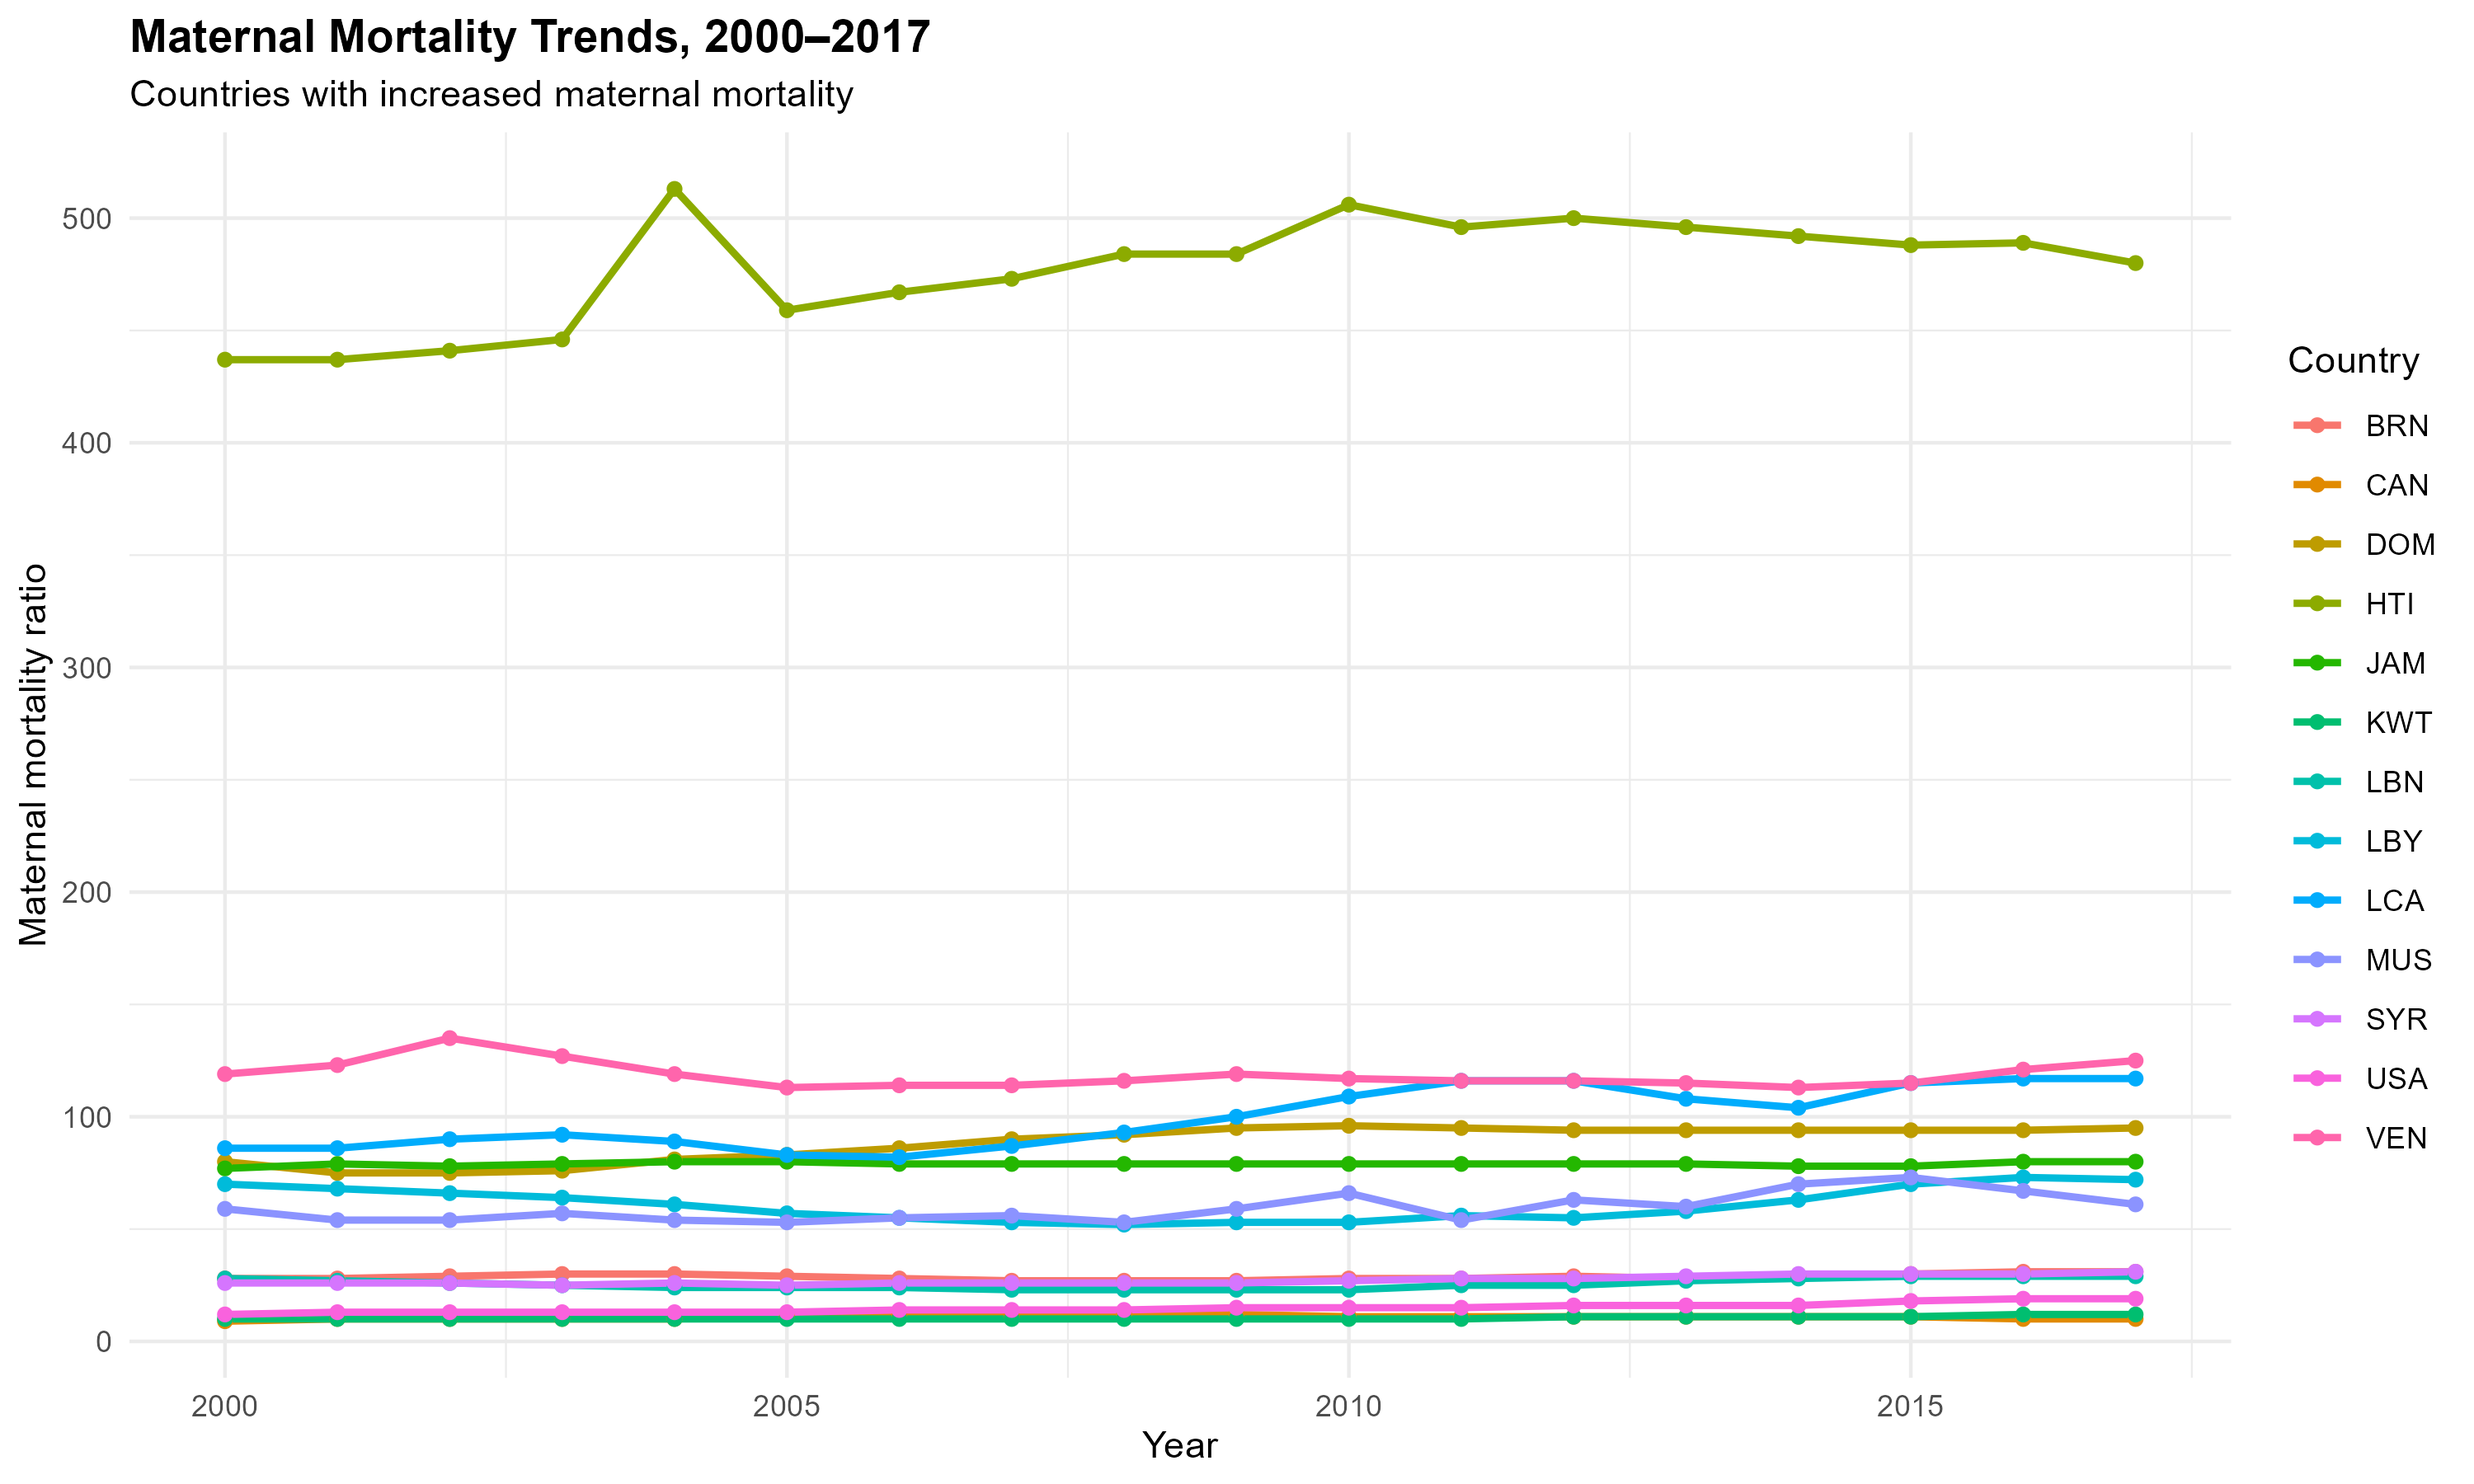
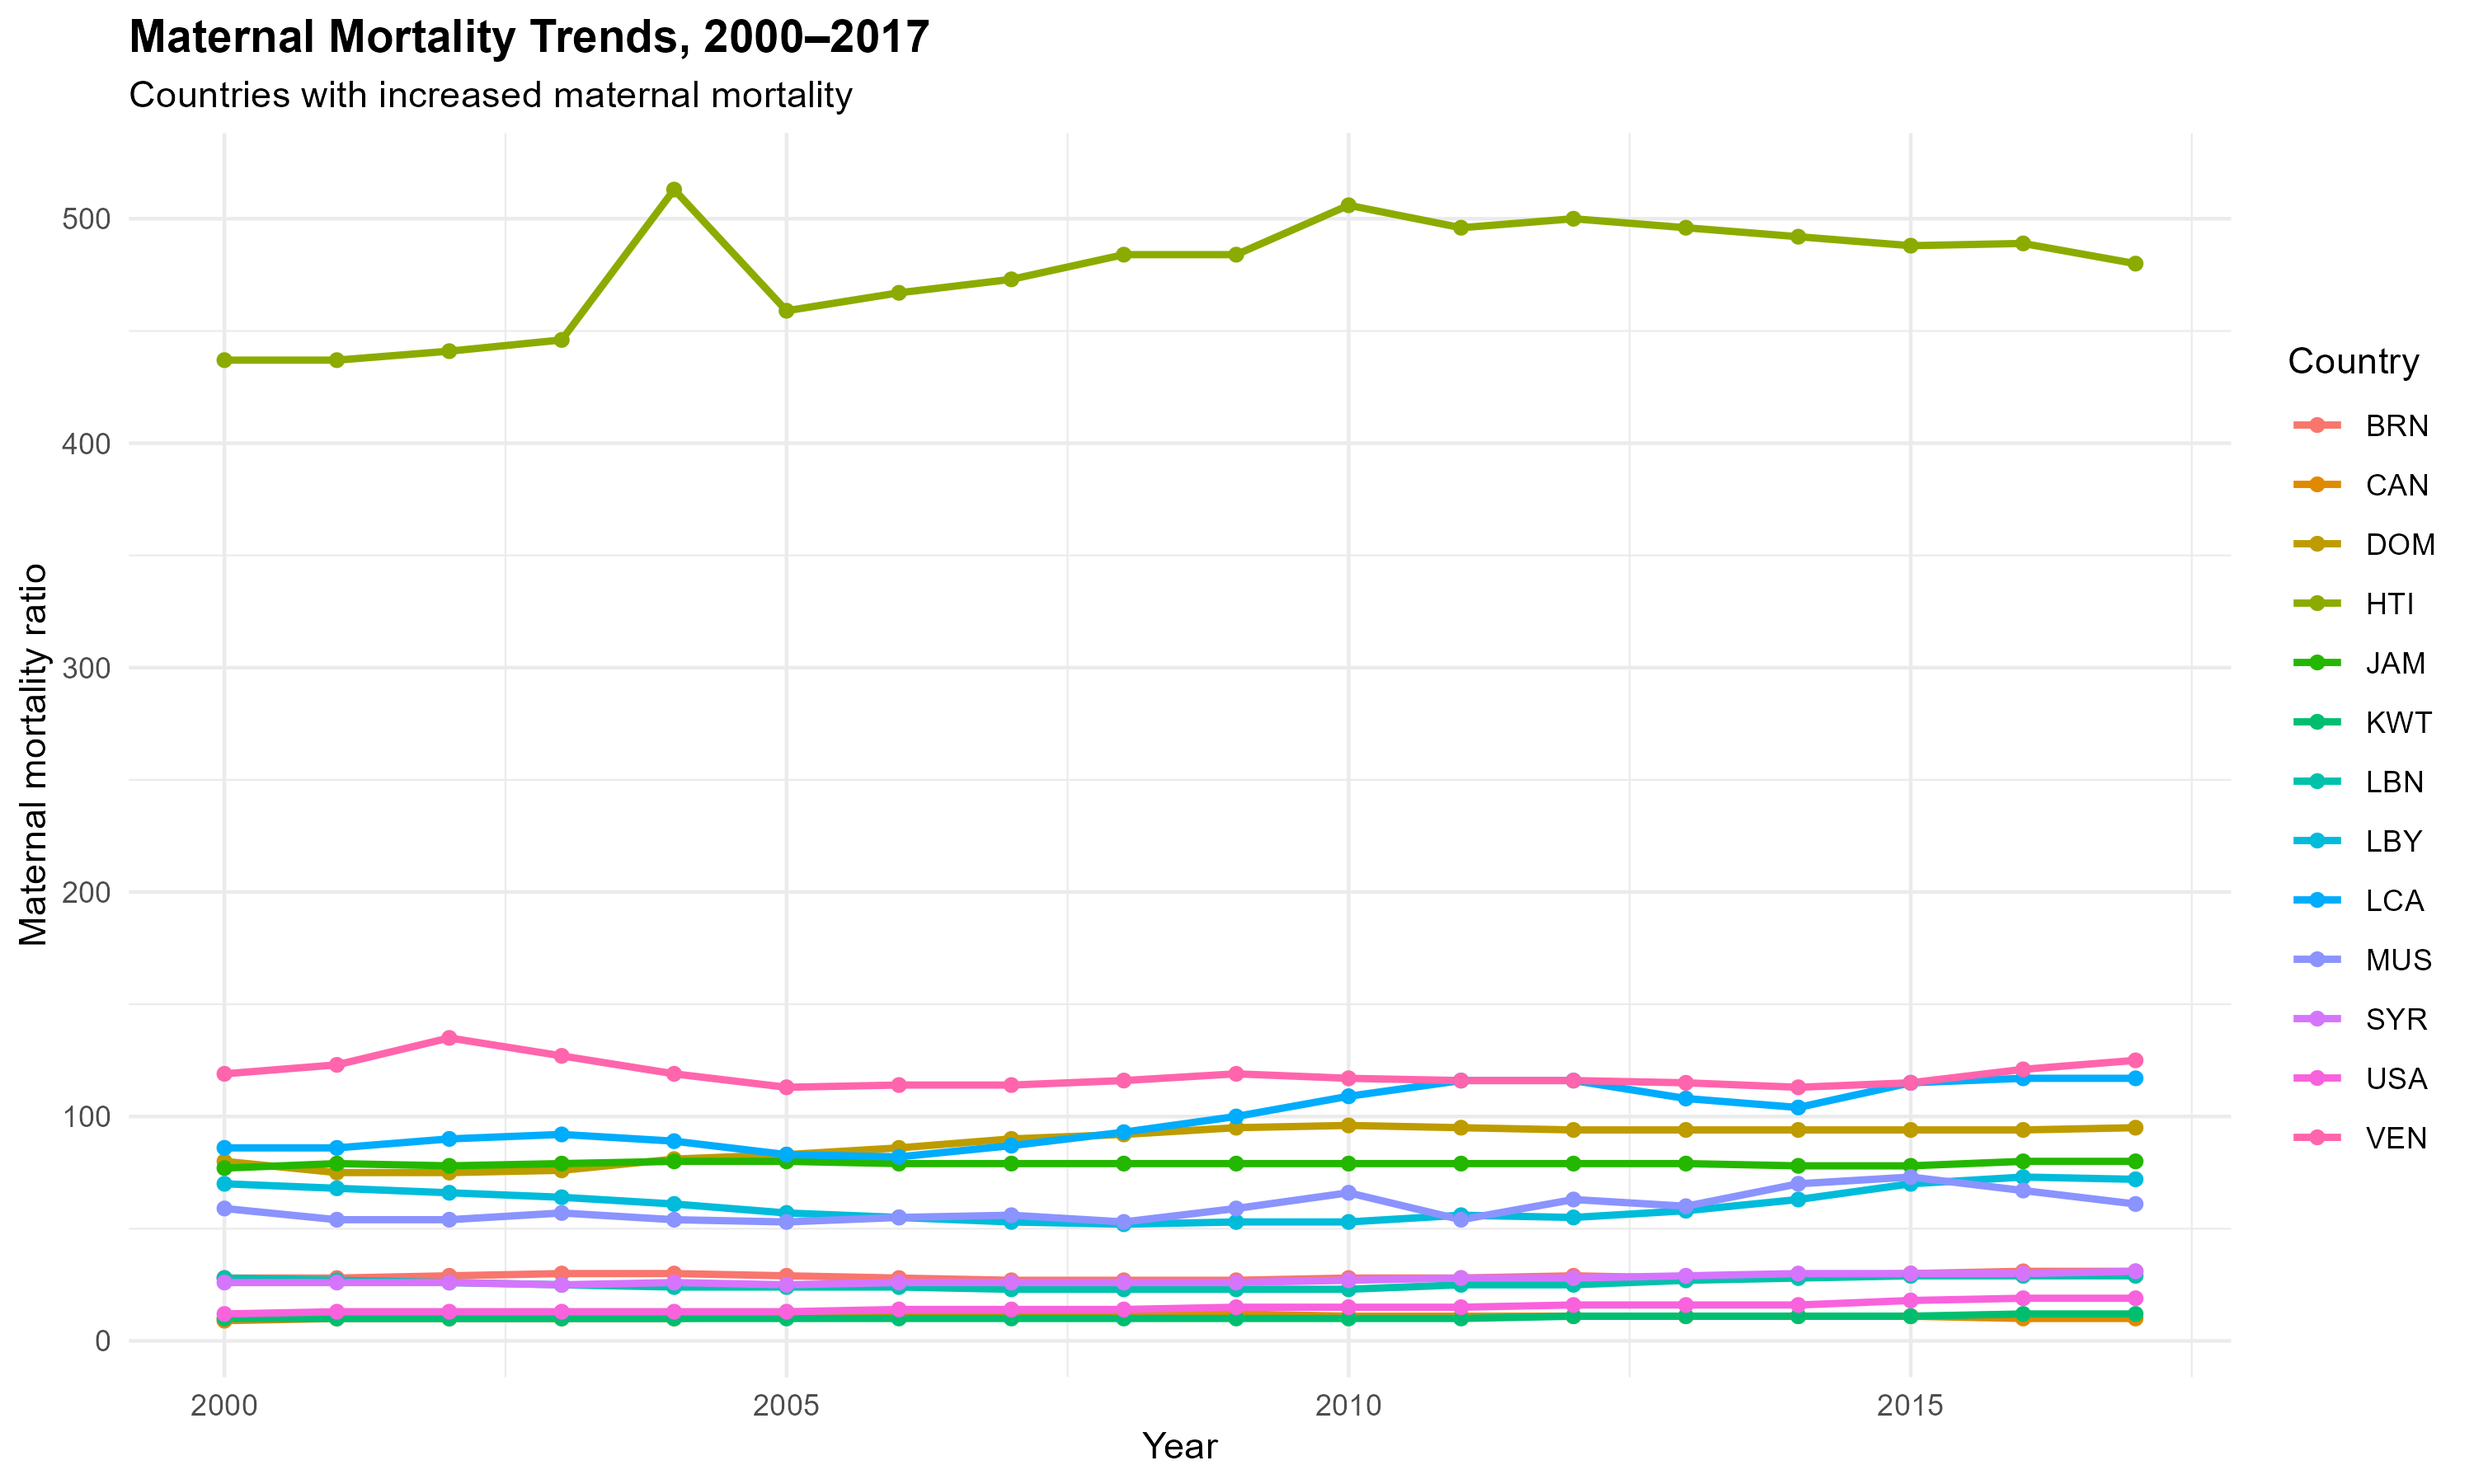
class7_regression

diff --git a/reports/table02_Association_Between_Armed_Conflict_and_Maternal_and_Child_Mortality.html b/reports/table02_Association_Between_Armed_Conflict_and_Maternal_and_Child_Mortality.html
@@ -1,0 +1,45 @@
+
+<table style="text-align:center"><caption><strong>Table 2. Association Between Armed Conflict and Maternal and Child Mortality: Adjusted Regression Coefficients and 95% Confidence Intervals</strong></caption>
+<tr><td colspan="5" style="border-bottom: 1px solid black"></td></tr><tr><td style="text-align:left"></td><td colspan="4"><em>Dependent variable:</em></td></tr>
+<tr><td></td><td colspan="4" style="border-bottom: 1px solid black"></td></tr>
+<tr><td style="text-align:left"></td><td>Maternal</td><td>Under-five</td><td>Infant</td><td>Neonatal</td></tr>
+<tr><td style="text-align:left"></td><td>(1)</td><td>(2)</td><td>(3)</td><td>(4)</td></tr>
+<tr><td colspan="5" style="border-bottom: 1px solid black"></td></tr><tr><td style="text-align:left">armed_conflict</td><td>34.471<sup>***</sup></td><td>2.957<sup>***</sup></td><td>1.646<sup>***</sup></td><td>0.127</td></tr>
+<tr><td style="text-align:left"></td><td>(4.493)</td><td>(0.715)</td><td>(0.365)</td><td>(0.142)</td></tr>
+<tr><td style="text-align:left"></td><td></td><td></td><td></td><td></td></tr>
+<tr><td style="text-align:left">log_gdp</td><td>-27.488<sup>***</sup></td><td>-8.701<sup>***</sup></td><td>-6.135<sup>***</sup></td><td>-3.175<sup>***</sup></td></tr>
+<tr><td style="text-align:left"></td><td>(4.738)</td><td>(0.734)</td><td>(0.374)</td><td>(0.146)</td></tr>
+<tr><td style="text-align:left"></td><td></td><td></td><td></td><td></td></tr>
+<tr><td style="text-align:left">oecd</td><td>28.063<sup>*</sup></td><td>6.617<sup>***</sup></td><td>3.217<sup>***</sup></td><td>1.219<sup>***</sup></td></tr>
+<tr><td style="text-align:left"></td><td>(15.644)</td><td>(2.279)</td><td>(1.161)</td><td>(0.452)</td></tr>
+<tr><td style="text-align:left"></td><td></td><td></td><td></td><td></td></tr>
+<tr><td style="text-align:left">pop_dens</td><td>-0.416</td><td>-0.344<sup>***</sup></td><td>-0.182<sup>***</sup></td><td>-0.054<sup>***</sup></td></tr>
+<tr><td style="text-align:left"></td><td>(0.380)</td><td>(0.058)</td><td>(0.029)</td><td>(0.011)</td></tr>
+<tr><td style="text-align:left"></td><td></td><td></td><td></td><td></td></tr>
+<tr><td style="text-align:left">urban</td><td>-8.297<sup>***</sup></td><td>-1.736<sup>***</sup></td><td>-1.008<sup>***</sup></td><td>-0.386<sup>***</sup></td></tr>
+<tr><td style="text-align:left"></td><td>(0.989)</td><td>(0.149)</td><td>(0.076)</td><td>(0.030)</td></tr>
+<tr><td style="text-align:left"></td><td></td><td></td><td></td><td></td></tr>
+<tr><td style="text-align:left">age_dep</td><td>-0.601<sup>*</sup></td><td>-0.055</td><td>0.045<sup>*</sup></td><td>0.044<sup>***</sup></td></tr>
+<tr><td style="text-align:left"></td><td>(0.336)</td><td>(0.049)</td><td>(0.025)</td><td>(0.010)</td></tr>
+<tr><td style="text-align:left"></td><td></td><td></td><td></td><td></td></tr>
+<tr><td style="text-align:left">male_edu</td><td>-60.627<sup>***</sup></td><td>-9.006<sup>***</sup></td><td>-4.817<sup>***</sup></td><td>-1.325<sup>***</sup></td></tr>
+<tr><td style="text-align:left"></td><td>(5.952)</td><td>(0.852)</td><td>(0.434)</td><td>(0.169)</td></tr>
+<tr><td style="text-align:left"></td><td></td><td></td><td></td><td></td></tr>
+<tr><td style="text-align:left">temp</td><td>10.516<sup>***</sup></td><td>2.423<sup>***</sup></td><td>1.153<sup>***</sup></td><td>0.303<sup>***</sup></td></tr>
+<tr><td style="text-align:left"></td><td>(3.183)</td><td>(0.515)</td><td>(0.263)</td><td>(0.102)</td></tr>
+<tr><td style="text-align:left"></td><td></td><td></td><td></td><td></td></tr>
+<tr><td style="text-align:left">rainfall_1000</td><td>-4.580</td><td>-0.038</td><td>0.018</td><td>-0.131</td></tr>
+<tr><td style="text-align:left"></td><td>(6.148)</td><td>(0.974)</td><td>(0.496)</td><td>(0.193)</td></tr>
+<tr><td style="text-align:left"></td><td></td><td></td><td></td><td></td></tr>
+<tr><td style="text-align:left">earthquake</td><td>4.503</td><td>1.637<sup>**</sup></td><td>0.884<sup>**</sup></td><td>0.449<sup>***</sup></td></tr>
+<tr><td style="text-align:left"></td><td>(4.683)</td><td>(0.748)</td><td>(0.381)</td><td>(0.148)</td></tr>
+<tr><td style="text-align:left"></td><td></td><td></td><td></td><td></td></tr>
+<tr><td style="text-align:left">drought</td><td>-1.256</td><td>0.942</td><td>0.729<sup>**</sup></td><td>0.403<sup>***</sup></td></tr>
+<tr><td style="text-align:left"></td><td>(4.178)</td><td>(0.652)</td><td>(0.332)</td><td>(0.129)</td></tr>
+<tr><td style="text-align:left"></td><td></td><td></td><td></td><td></td></tr>
+<tr><td colspan="5" style="border-bottom: 1px solid black"></td></tr><tr><td style="text-align:left">Observations</td><td>3,223</td><td>3,618</td><td>3,618</td><td>3,618</td></tr>
+<tr><td style="text-align:left">R<sup>2</sup></td><td>0.097</td><td>0.155</td><td>0.212</td><td>0.237</td></tr>
+<tr><td style="text-align:left">Adjusted R<sup>2</sup></td><td>0.035</td><td>0.102</td><td>0.163</td><td>0.190</td></tr>
+<tr><td style="text-align:left">F Statistic</td><td>29.503<sup>***</sup> (df = 11; 3014)</td><td>56.780<sup>***</sup> (df = 11; 3405)</td><td>83.130<sup>***</sup> (df = 11; 3405)</td><td>96.162<sup>***</sup> (df = 11; 3405)</td></tr>
+<tr><td colspan="5" style="border-bottom: 1px solid black"></td></tr><tr><td style="text-align:left"><em>Note:</em></td><td colspan="4" style="text-align:right"><sup>*</sup>p<0.1; <sup>**</sup>p<0.05; <sup>***</sup>p<0.01</td></tr>
+</table>
